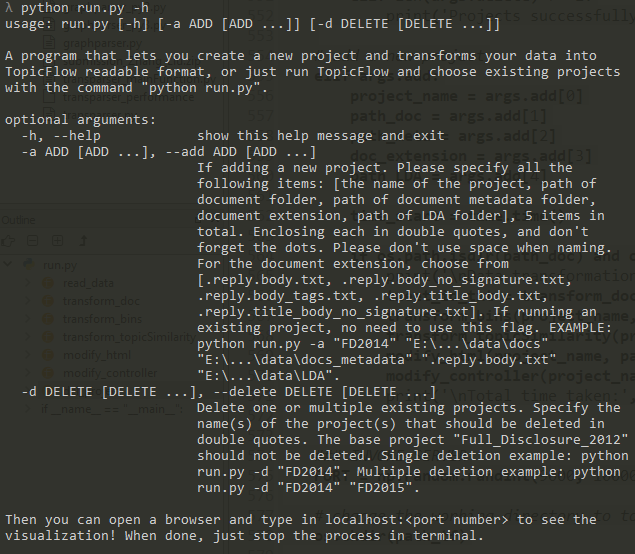
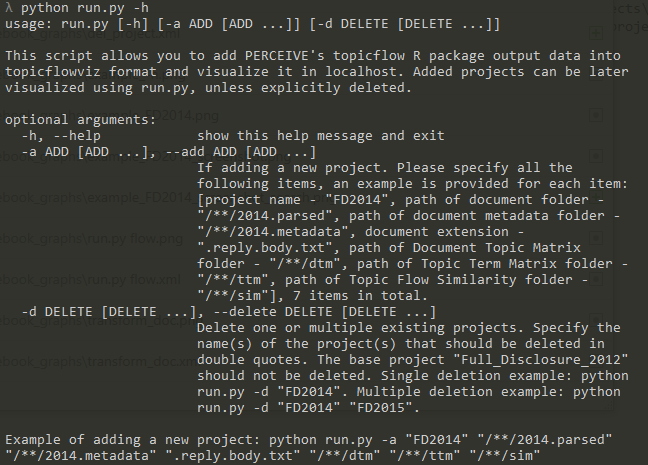
_ #2 makes explicit more parameters, updates README.
--add parser now accepts seven arguments to create a new project (removed path_LDA, added path_dtm, path_ttm, and path_sim) so that the input files are not dependent on certain file structures.
The notebook, README, and graph folder are updated to reflect the changes.

diff --git a/run.py b/run.py
@@ -50,7 +50,7 @@ def read_data(df_list=False, df_topic_doc=False, df_topic_word=False, df_topic_s
         df_topic_doc = []
         for month in month_list:
             filename = month + ".csv"
-            path_file = os.path.join(path_LDA, "Document_Topic_Matrix", filename) 
+            path_file = os.path.join(path_dtm, filename) 
             df_topic_doc.append(
                 pd.read_csv(path_file,
                             index_col= 0)
@@ -61,7 +61,7 @@ def read_data(df_list=False, df_topic_doc=False, df_topic_word=False, df_topic_s
         df_topic_word = []
         for month in month_list:
             filename = month + ".csv"
-            path_file = os.path.join(path_LDA, "Topic_Term_Matrix", filename) 
+            path_file = os.path.join(path_ttm, filename) 
             df_topic_word.append(
                 pd.read_csv(path_file,
                             index_col= 0)
@@ -69,7 +69,7 @@ def read_data(df_list=False, df_topic_doc=False, df_topic_word=False, df_topic_s
         return df_topic_word
 
     if df_topic_sim == True:
-        path_file = os.path.join(path_LDA, "Topic_Flow", "topic_flow.csv") 
+        path_file = os.path.join(path_sim, "topic_flow.csv") 
         df_topic_sim = pd.read_csv(path_file)
         return df_topic_sim
 
@@ -163,7 +163,7 @@ def transform_doc(project_name, path_doc, path_meta, doc_extension):
     return tweet_id_txt
 
 
-def transform_bins(project_name, path_doc, path_meta, path_LDA, tweet_id_txt):
+def transform_bins(project_name, path_doc, path_meta, path_dtm, path_ttm, path_sim, tweet_id_txt):
     """
     Transform LDA-genereted Topic-document matrixes and Topic-word
     matrixes into JavaScript format that TopicFlow can read.
@@ -292,7 +292,7 @@ def transform_bins(project_name, path_doc, path_meta, path_LDA, tweet_id_txt):
     print('Bins.js created,            40% complete.')
 
 
-def transform_topicSimilarity(project_name, path_LDA):
+def transform_topicSimilarity(project_name, path_sim):
     """
     Transform topic similarity matrix into JavaScript format
     that TopicFlow can read.
@@ -340,7 +340,7 @@ def transform_topicSimilarity(project_name, path_LDA):
         for row_ix in range(len(df_tmp)):
             source = month_ix*10 + int(df_tmp[mm1].values[row_ix]) - 1
             target = (month_ix+1)*10 + int(df_tmp[mm2].values[row_ix]) - 1
-            score = df_tmp[sim].values[row_ix] * 200 # 200 makes it neither too thin nor too thick
+            score = df_tmp[sim].values[row_ix] * 100 # 100 makes it neither too thin nor too thick
             link_tmp = {}
             link_tmp['source'], link_tmp['target'], link_tmp['value'] = source, target, score
             links.append(link_tmp)
@@ -532,10 +532,10 @@ if __name__ == "__main__":
 
     ### ARGPARSE
     parser = argparse.ArgumentParser(prog = 'run.py',
-                                     description = 'A program that lets you create a new project and transforms your data into TopicFlow readable format, or just run TopicFlow and choose existing projects with the command "python run.py".',
-                                     epilog = 'Then you can open a browser and type in localhost:<port number> to see the visualization! When done, just stop the process in terminal.')
+                                     description = 'This script allows you to add PERCEIVE\'s topicflow R package output data into topicflowviz format and visualize it in localhost. Added projects can be later visualized using run.py, unless explicitly deleted.',
+                                     epilog = 'Example of adding a new project: python run.py -a "FD2014" "/**/2014.parsed" "/**/2014.metadata" ".reply.body.txt" "/**/dtm" "/**/ttm" "/**/sim"')
     parser.add_argument('-a', '--add', type = str, nargs = '+',
-                        help = 'If adding a new project. Please specify all the following items: [the name of the project, path of document folder, path of document metadata folder, document extension, path of LDA folder], 5 items in total. Enclosing each in double quotes, and don\'t forget the dots. Please don\'t use space when naming. For the document extension, choose from [.reply.body.txt, .reply.body_no_signature.txt, .reply.body_tags.txt, .reply.title_body.txt, .reply.title_body_no_signature.txt]. If running an existing project, no need to use this flag. EXAMPLE: python run.py -a "FD2014" "E:\\...\\data\\docs" "E:\\...\\data\\docs_metadata" ".reply.body.txt" "E:\\...\\data\\LDA".')
+                        help = 'If adding a new project. Please specify all the following items, an example is provided for each item: [project name - "FD2014", path of document folder - "/**/2014.parsed", path of document metadata folder - "/**/2014.metadata", document extension - ".reply.body.txt", path of Document Topic Matrix folder - "/**/dtm", path of Topic Term Matrix folder - "/**/ttm", path of Topic Flow Similarity folder - "/**/sim"], 7 items in total.')
     parser.add_argument('-d', '--delete', type = str, nargs = '+',
                         help = 'Delete one or multiple existing projects. Specify the name(s) of the project(s) that should be deleted in double quotes. The base project "Full_Disclosure_2012" should not be deleted. Single deletion example: python run.py -d "FD2014". Multiple deletion example: python run.py -d "FD2014" "FD2015".')
     args = parser.parse_args()
@@ -557,15 +557,17 @@ if __name__ == "__main__":
         path_doc = args.add[1]
         path_meta = args.add[2]
         doc_extension = args.add[3]
-        path_LDA = args.add[4]
+        path_dtm = args.add[4]
+        path_ttm = args.add[5]
+        path_sim = args.add[6]
         
         time_start = time.time()
         
-        if os.path.isdir(path_doc) and os.path.isdir(path_LDA):
+        if os.path.isdir(path_doc) and os.path.isdir(path_meta) and os.path.isdir(path_dtm) and os.path.isdir(path_ttm) and os.path.isdir(path_sim):
             print('\nData transformation started...')
             tweet_id_txt = transform_doc(project_name, path_doc, path_meta, doc_extension)
-            transform_bins(project_name, path_doc, path_meta, path_LDA, tweet_id_txt)
-            transform_topicSimilarity(project_name, path_LDA)
+            transform_bins(project_name, path_doc, path_meta, path_dtm, path_ttm, path_sim, tweet_id_txt)
+            transform_topicSimilarity(project_name, path_sim)
             modify_html(project_name, path_tf)
             modify_controller(project_name, path_tf)
             print('\nTotal time taken:', str(round(time.time() - time_start, 2)), 'seconds.\n')

diff --git a/README.md b/README.md
@@ -8,7 +8,7 @@ The original Github project includes all the necessary code to display visualiza
 
 This fork is a work-in-progress to create the data scripts pipeline to reuse TopicFlow for any other corpus besides Tweets.
 
-This version of TopicFlow can be utilized to visualize Full Disclosure or Bugtraq datasets for [PERCEIVE](https://github.com/sailuh/perceive). A detailed notebook of how the data transformation pipeline works can be found in `Data Transformation Pipeline for Full Disclosure- a Notebook`.
+This version of TopicFlow can be utilized to visualize Full Disclosure or Bugtraq datasets for [PERCEIVE](https://github.com/sailuh/perceive). A detailed notebook of how the data transformation pipeline works can be found in [Data Transformation Pipeline for Full Disclosure- a Notebook](https://github.com/estepona/topicflow/blob/2-data-transformation-pipeline-for-full-disclosure/Data%20Transformation%20Pipeline%20for%20Full%20Disclosure-%20a%20Notebook.ipynb).
 
 ## Usage
 
